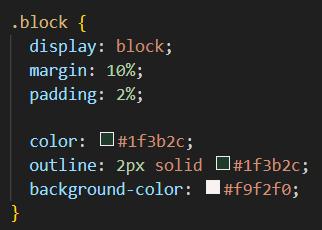
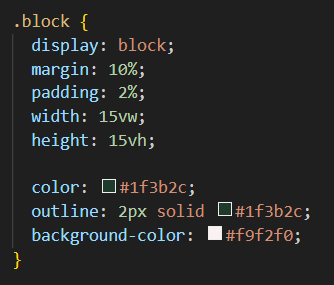
Replace CSS blog images

Changed region(s): [[0.0932, 0.5478, 0.9627, 0.8826], [0.0311, 0.0304, 0.528, 0.5478], [0.0311, 0.8826, 0.0621, 0.9739]]

diff --git a/styles/main.css b/styles/main.css
@@ -170,6 +170,8 @@ footer {
   display: block;
   margin: 10%;
   padding: 2%;
+  width: 15vw;
+  height: 15vh;
 
   color: #1f3b2c;
   outline: 2px solid #1f3b2c;
@@ -180,6 +182,8 @@ footer {
   display: inline;
   margin: 10%;
   padding: 2%;
+  width: 25%;
+  height: 20vh;
 
   color: #1f3b2c;
   outline: 2px solid #1f3b2c;
@@ -190,6 +194,8 @@ footer {
   display: inline-block;
   margin: 10%;
   padding: 2%;
+  width: 15vw;
+  height: 15vh;
 
   color: #1f3b2c;
   outline: 2px solid #1f3b2c;

diff --git a/blog/html-css.html b/blog/html-css.html
@@ -74,7 +74,7 @@
       </p>
     </div>
 
-    <h3>Inline-block</h3>
+    <h3>Inline block</h3>
     <p>
       - allows the user to modify the height and width of an element, however,
       it will allow all elements to stay on the same line. Thus combining
